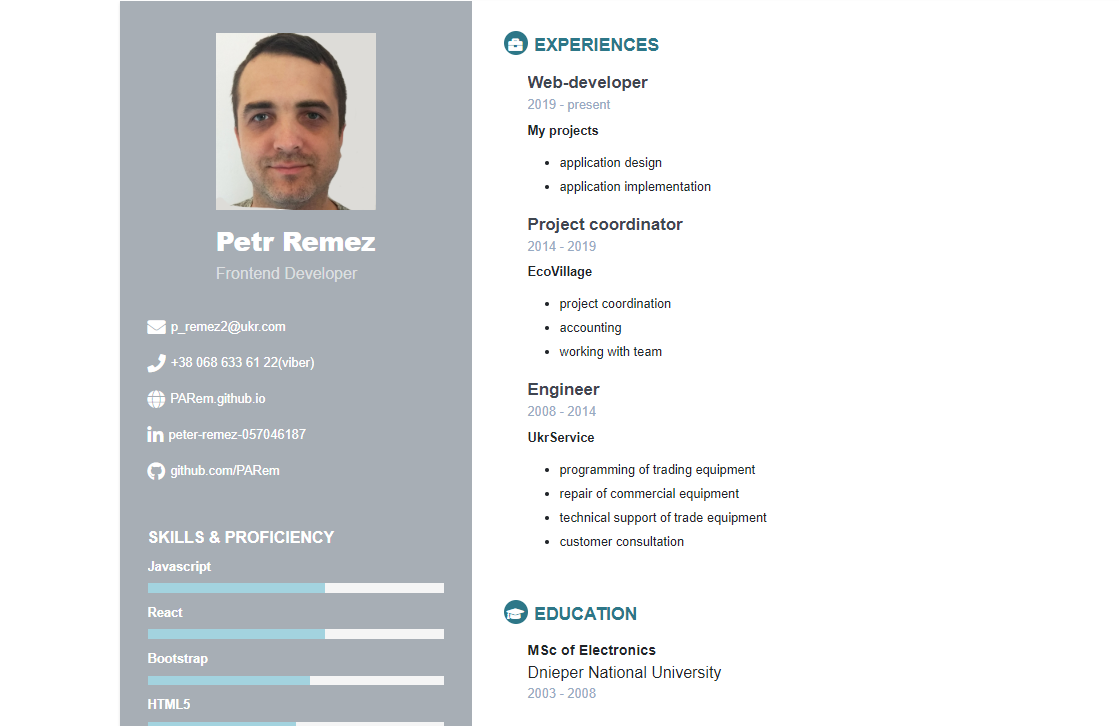
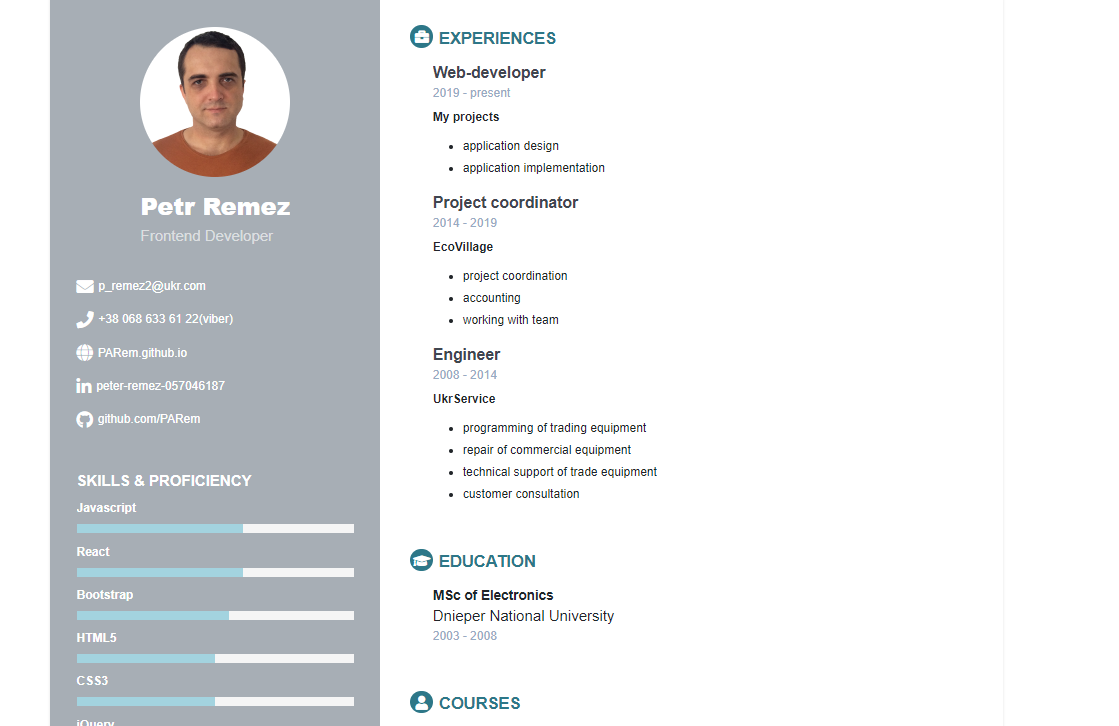
finish

Changed region(s): [[0.0304, 0.0, 0.6988, 1.0]]

diff --git a/index.html b/index.html
@@ -22,7 +22,7 @@
     <div class="col-md-4 sidebar">
       <!--profile-container-->
       <div class="profile-container">
-        <img class="img-responsive" src="image/myPhoto.png" alt="photo" width="200" height="221"/>
+        <img class="img-responsive" src="image/myPhoto.png" alt="photo" width="300" height="300"/>
         <div class="profile-text">
           <h1 class="name">Petr Remez</h1>
           <h3 class="tagline">Frontend Developer</h3>

diff --git a/css/style.css b/css/style.css
@@ -61,6 +61,8 @@ p {
 }
 .profile-container img {
     width: 200px;
+    height: 200px;
+    border-radius: 100px;
     margin-top: 20px;
     margin-bottom: 20px;
 }
